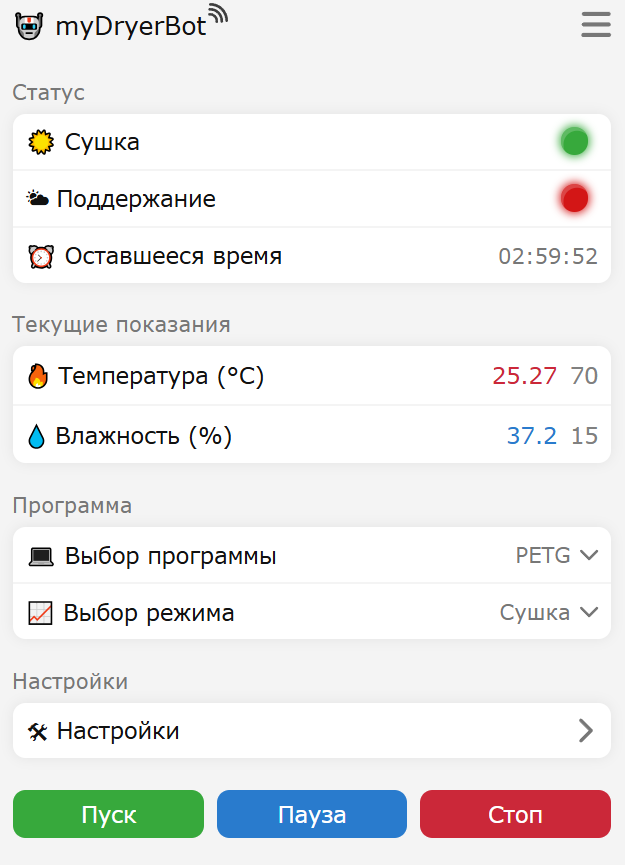
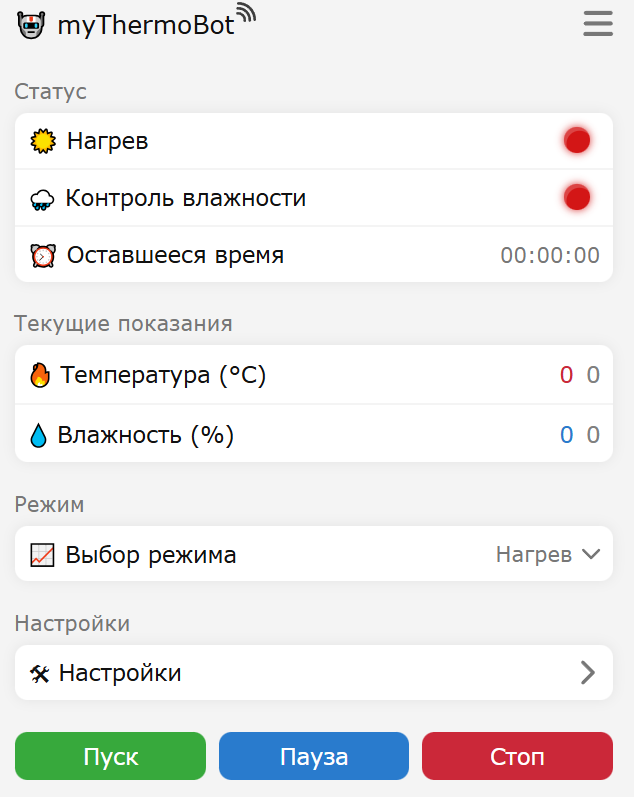
delete program

diff --git a/index.html b/index.html
@@ -4,7 +4,7 @@
 <head>
     <meta charset="UTF-8">
     <meta name="viewport" content="width=device-width, initial-scale=1.0">
-    <title>Инструкция myDryerBot</title>
+    <title>Инструкция TempBot-1000</title>
     <link rel="stylesheet" href="https://cdnjs.cloudflare.com/ajax/libs/font-awesome/6.4.0/css/all.min.css">
     <style>
         :root {
@@ -627,14 +627,14 @@
     <div class="main-content">
         <header class="header">
             <div class="menu-toggle" id="mobileMenuToggle">☰</div>
-            <div class="header-title">Инструкция по управлению myDryerBot</div>
+            <div class="header-title">Инструкция по управлению TempBot-1000</div>
         </header>
 
         <div class="content">
             <!-- Баннер с ссылкой на инструкцию прибора -->
             <div class="instruction-banner">
-                <h3><i class="fas fa-book"></i> Инструкция по сборке сушилки</h3>
-                <p>Подробное руководство по сборке сушилки myDryerBot. Ознакомьтесь перед сборкой и наладкой прибора.
+                <h3><i class="fas fa-book"></i> Инструкция по сборке термокамеры</h3>
+                <p>Подробное руководство по сборке термокамеры TempBot-1000. Ознакомьтесь перед сборкой и наладкой прибора.
                 </p>
                 <a href="controller.html" class="instruction-link">
                     <i class="fas fa-external-link-alt"></i>
@@ -645,11 +645,11 @@
             <!-- Introduction Section -->
             <section id="section-intro" class="section">
                 <h1><i class="fas fa-home"></i> Введение</h1>
-                <p>myDryerBot - это набор для построения собственной интеллектуальной сушилки для филамента с
+                <p>TempBot-1000 - это набор для построения термокамеры с
                     PID-регулированием температуры и поддержанием влажности
-                    и возможностью масштабирования на нужное количество катушек филамента (в зависимости от мощности
-                    нагревателя). Так же с применением данного набора
-                    можно построить термокамеру для 3D принтера.</p>
+                    и возможностью масштабирования (в зависимости от мощности
+                    нагревателя). Так же  с применением данного набора
+                    можно построить сушилку для филамента инкубатор и многое другое.</p>
                 <p></p>
 
                 <div id="subsection-connection">
@@ -674,39 +674,16 @@
                     <ul>
                         <li>Текущие показания температуры и влажности</li>
                         <li>Кнопки управления процессом (Пуск/Пауза/Стоп)</li>
-                        <li>Выбор программы и режима работы</li>
+                        <li>Выбор режима работы</li>
                         <li>Индикация состояния</li>
                     </ul>
                     <img src="screenshots/main.png" alt="Главный интерфейс" class="screenshot">
                 </div>
             </section>
 
-            <!-- Programs Section -->
-            <section id="section-programs" class="section">
-                <h1><i class="fas fa-list-alt"></i> Программы сушки</h1>
-                <p>Устройство содержит предустановленные программы для различных типов филамента и возможность создания
-                    собственных программ.</p>
-
-                <div id="subsection-presets">
-                    <h2><i class="fas fa-cubes"></i> Предустановленные программы</h2>
-                    <p>Доступны следующие программы:</p>
-                    <ul>
-                        <li><strong>PLA</strong>: 50°C, 3 часа</li>
-                        <li><strong>PETG</strong>: 70°C, 3 часа</li>
-                        <li><strong>PA</strong>: 80°C, 3 часа</li>
-                        <li><strong>ABS</strong>: 85°C, 3 часа</li>
-                        <li><strong>TPU</strong>: 60°C, 3 часа</li>
-                        <li><strong>PVA</strong>: 45°C, 3 часа</li>
-                        <li><strong>PP</strong>: 70°C, 3 часа</li>
-                        <li><strong>ASA</strong>: 85°C, 3 часа</li>
-                        <li><strong>myProgram</strong>: собственна программа </li>
-                    </ul>
-                    <img src="screenshots/material.png" alt="Выбор программы" class="screenshot">
-                </div>
-
                 <div id="subsection-custom">
-                    <h2><i class="fas fa-user-cog"></i> Собственная программа</h2>
-                    <p>Для создания индивидуальной программы:</p>
+                    <h2><i class="fas fa-user-cog"></i> Программа</h2>
+                    <p>Для создания программы:</p>
                     <ol>
                         <li>Перейдите в настройки в раздел "Моя программа"</li>
                         <li>Установите желаемую температуру (0-120°C)</li>
@@ -725,7 +702,7 @@
                 <img src="screenshots/mode.png" alt="Ручной режим" class="screenshot">
                 <div id="subsection-auto">
                     <h2><i class="fas fa-cogs"></i> Автоматический режим</h2>
-                    <p>Полный цикл: сушка + поддержание влажности.</p>
+                    <p>Полный цикл: Нагрев + поддержание влажности.</p>
                     <ol>
                         <li>Выберите "Авто" в разделе "Выбор режима"</li>
                         <li>Выберите материал из списка</li>
@@ -734,10 +711,10 @@
                 </div>
 
                 <div id="subsection-dry">
-                    <h2><i class="fas fa-sun"></i> Режим сушки</h2>
-                    <p>Только процесс сушки без поддержания влажности.</p>
+                    <h2><i class="fas fa-sun"></i> Режим нагрева</h2>
+                    <p>Только процесс нагрева без поддержания влажности.</p>
                     <ol>
-                        <li>Выберите "Сушка" в режимах</li>
+                        <li>Выберите "Нагрев" в режимах</li>
                         <li>Выберите материал</li>
                         <li>Нажмите "Пуск"</li>
                     </ol>
@@ -745,7 +722,7 @@
 
                 <div id="subsection-humidity">
                     <h2><i class="fas fa-tint"></i> Режим поддержания</h2>
-                    <p>Только контроль влажности без предварительной сушки.</p>
+                    <p>Только контроль влажности без предварительного нагрева.</p>
                     <ol>
                         <li>Выберите "Поддержание" в режимах</li>
                         <li>Выберите материал</li>

diff --git a/controller.html b/controller.html
@@ -283,7 +283,7 @@
 
 <body>
     <header>
-        <div class="logo">Автоматическая сушилка филамента</div>
+        <div class="logo">Термокамера</div>
         <button class="menu-toggle" id="menuToggle">☰ Меню</button>
     </header>
 
